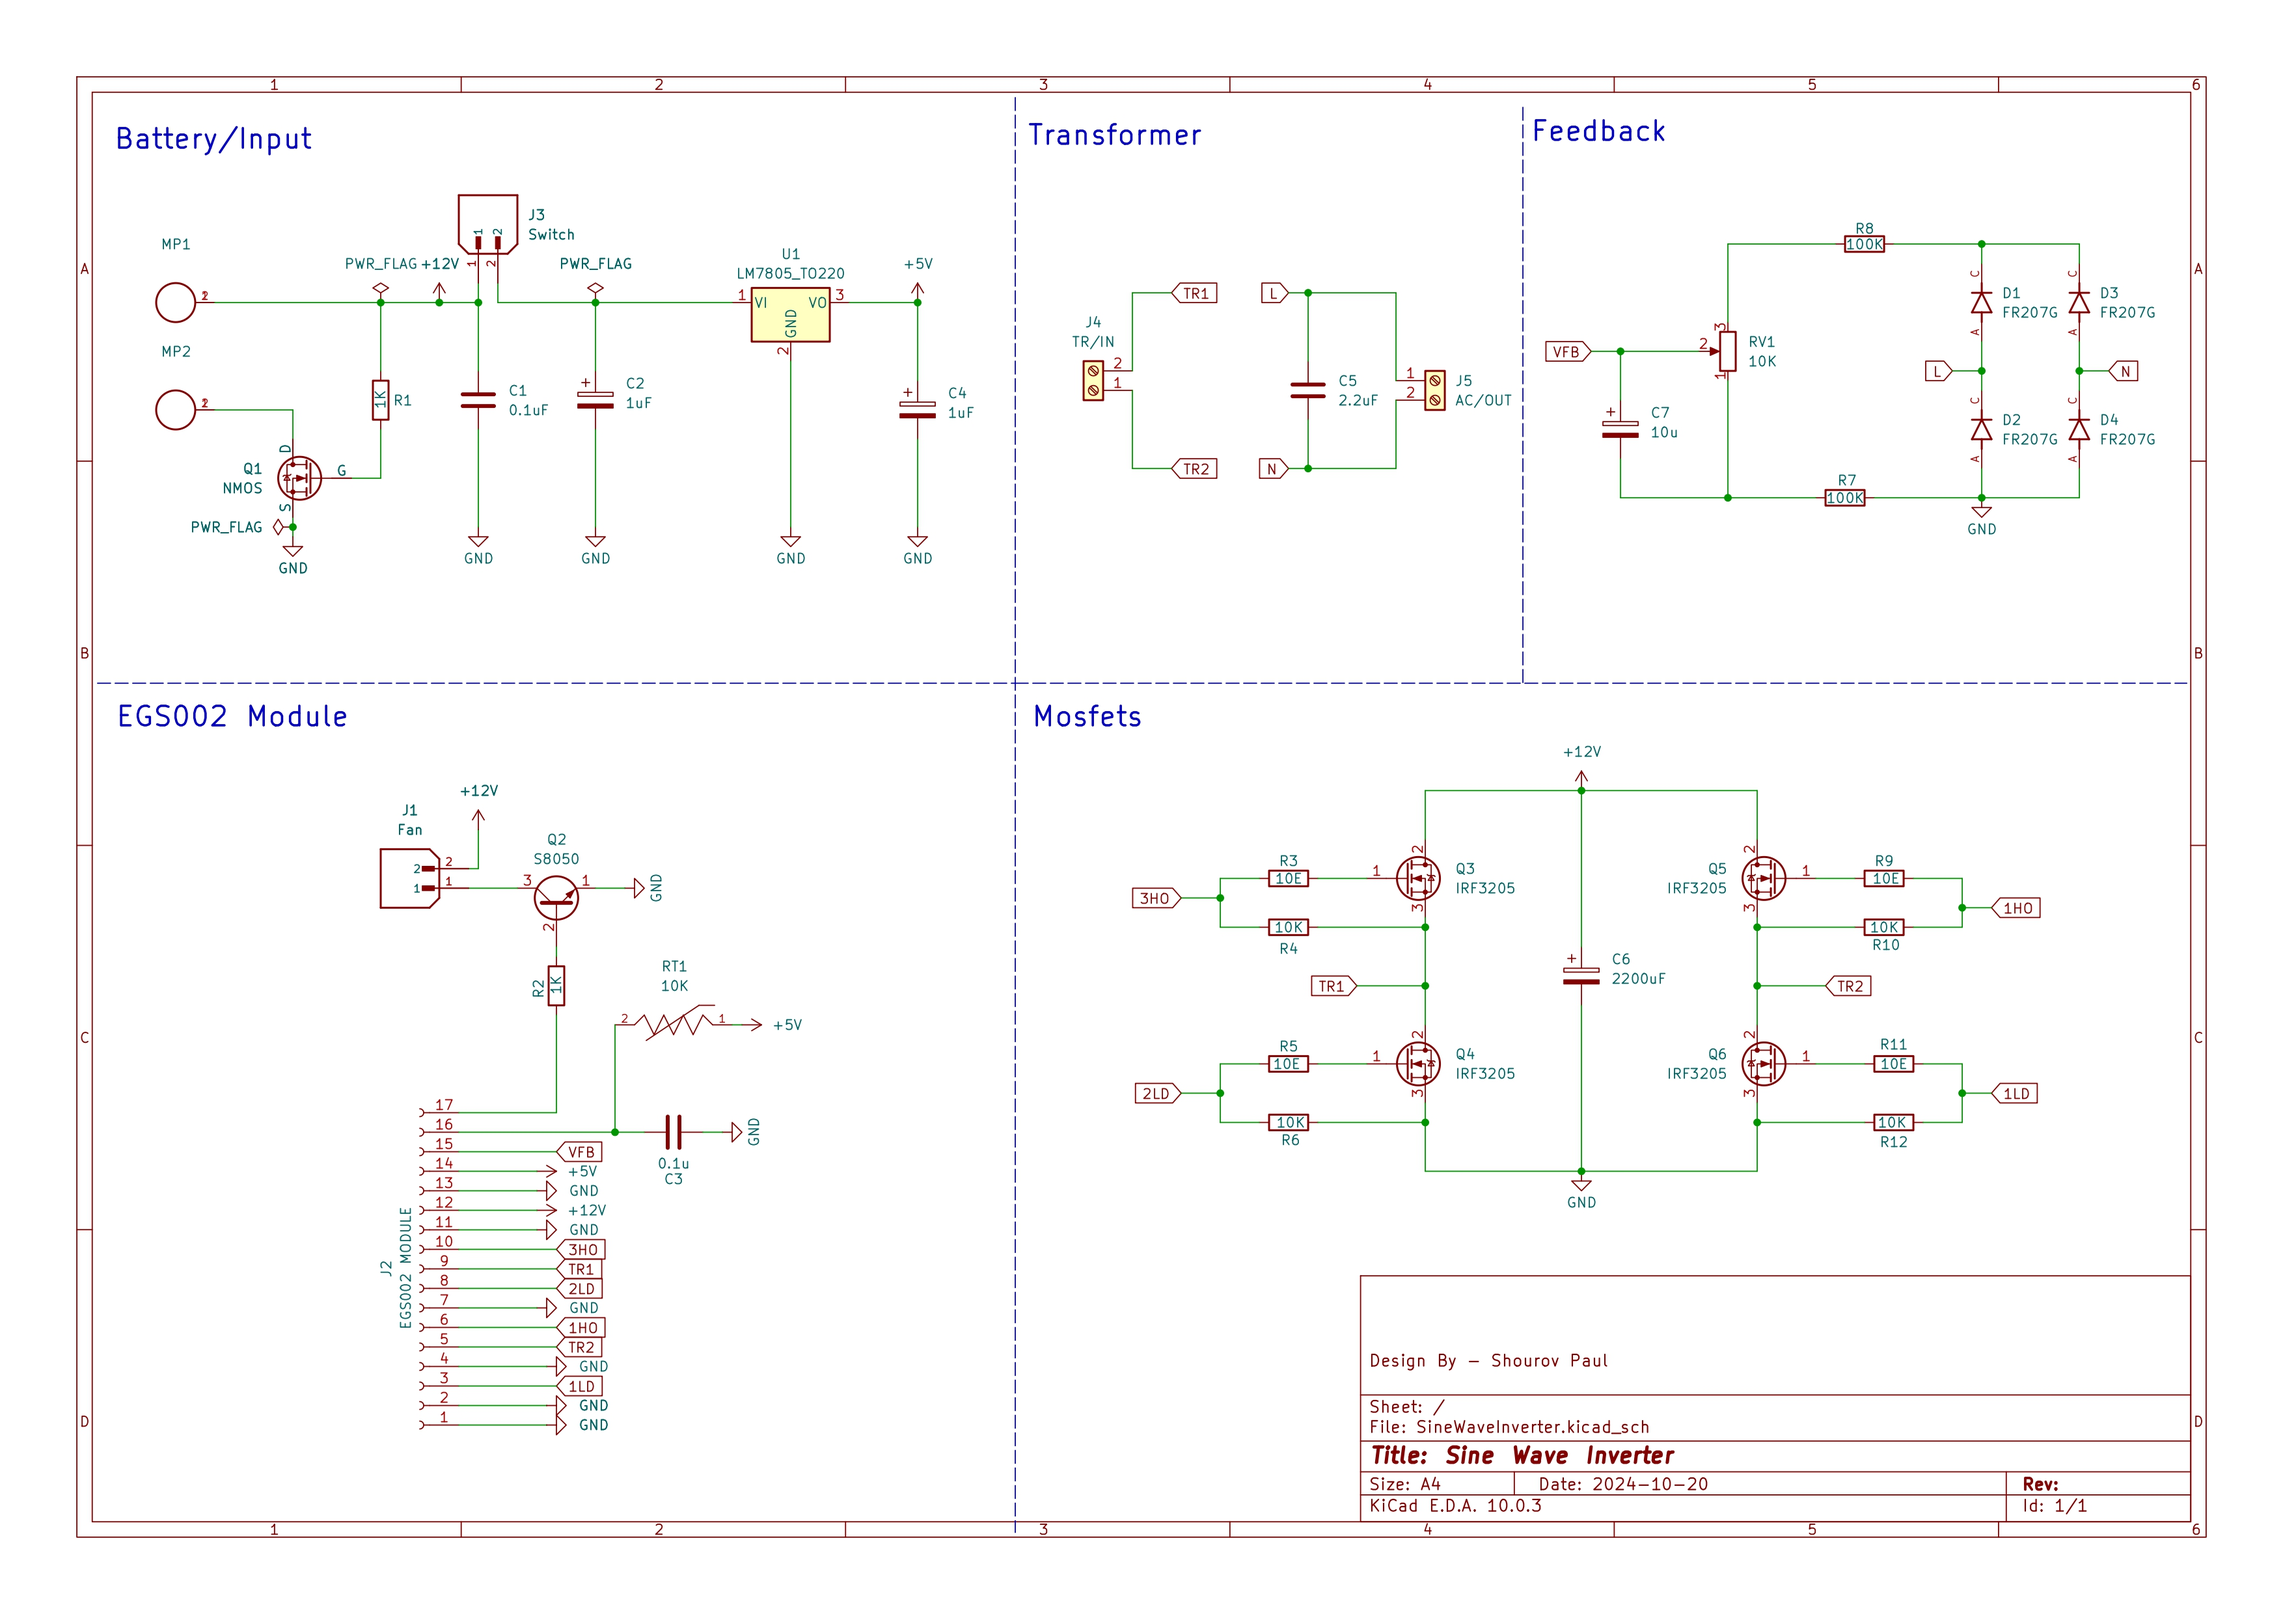
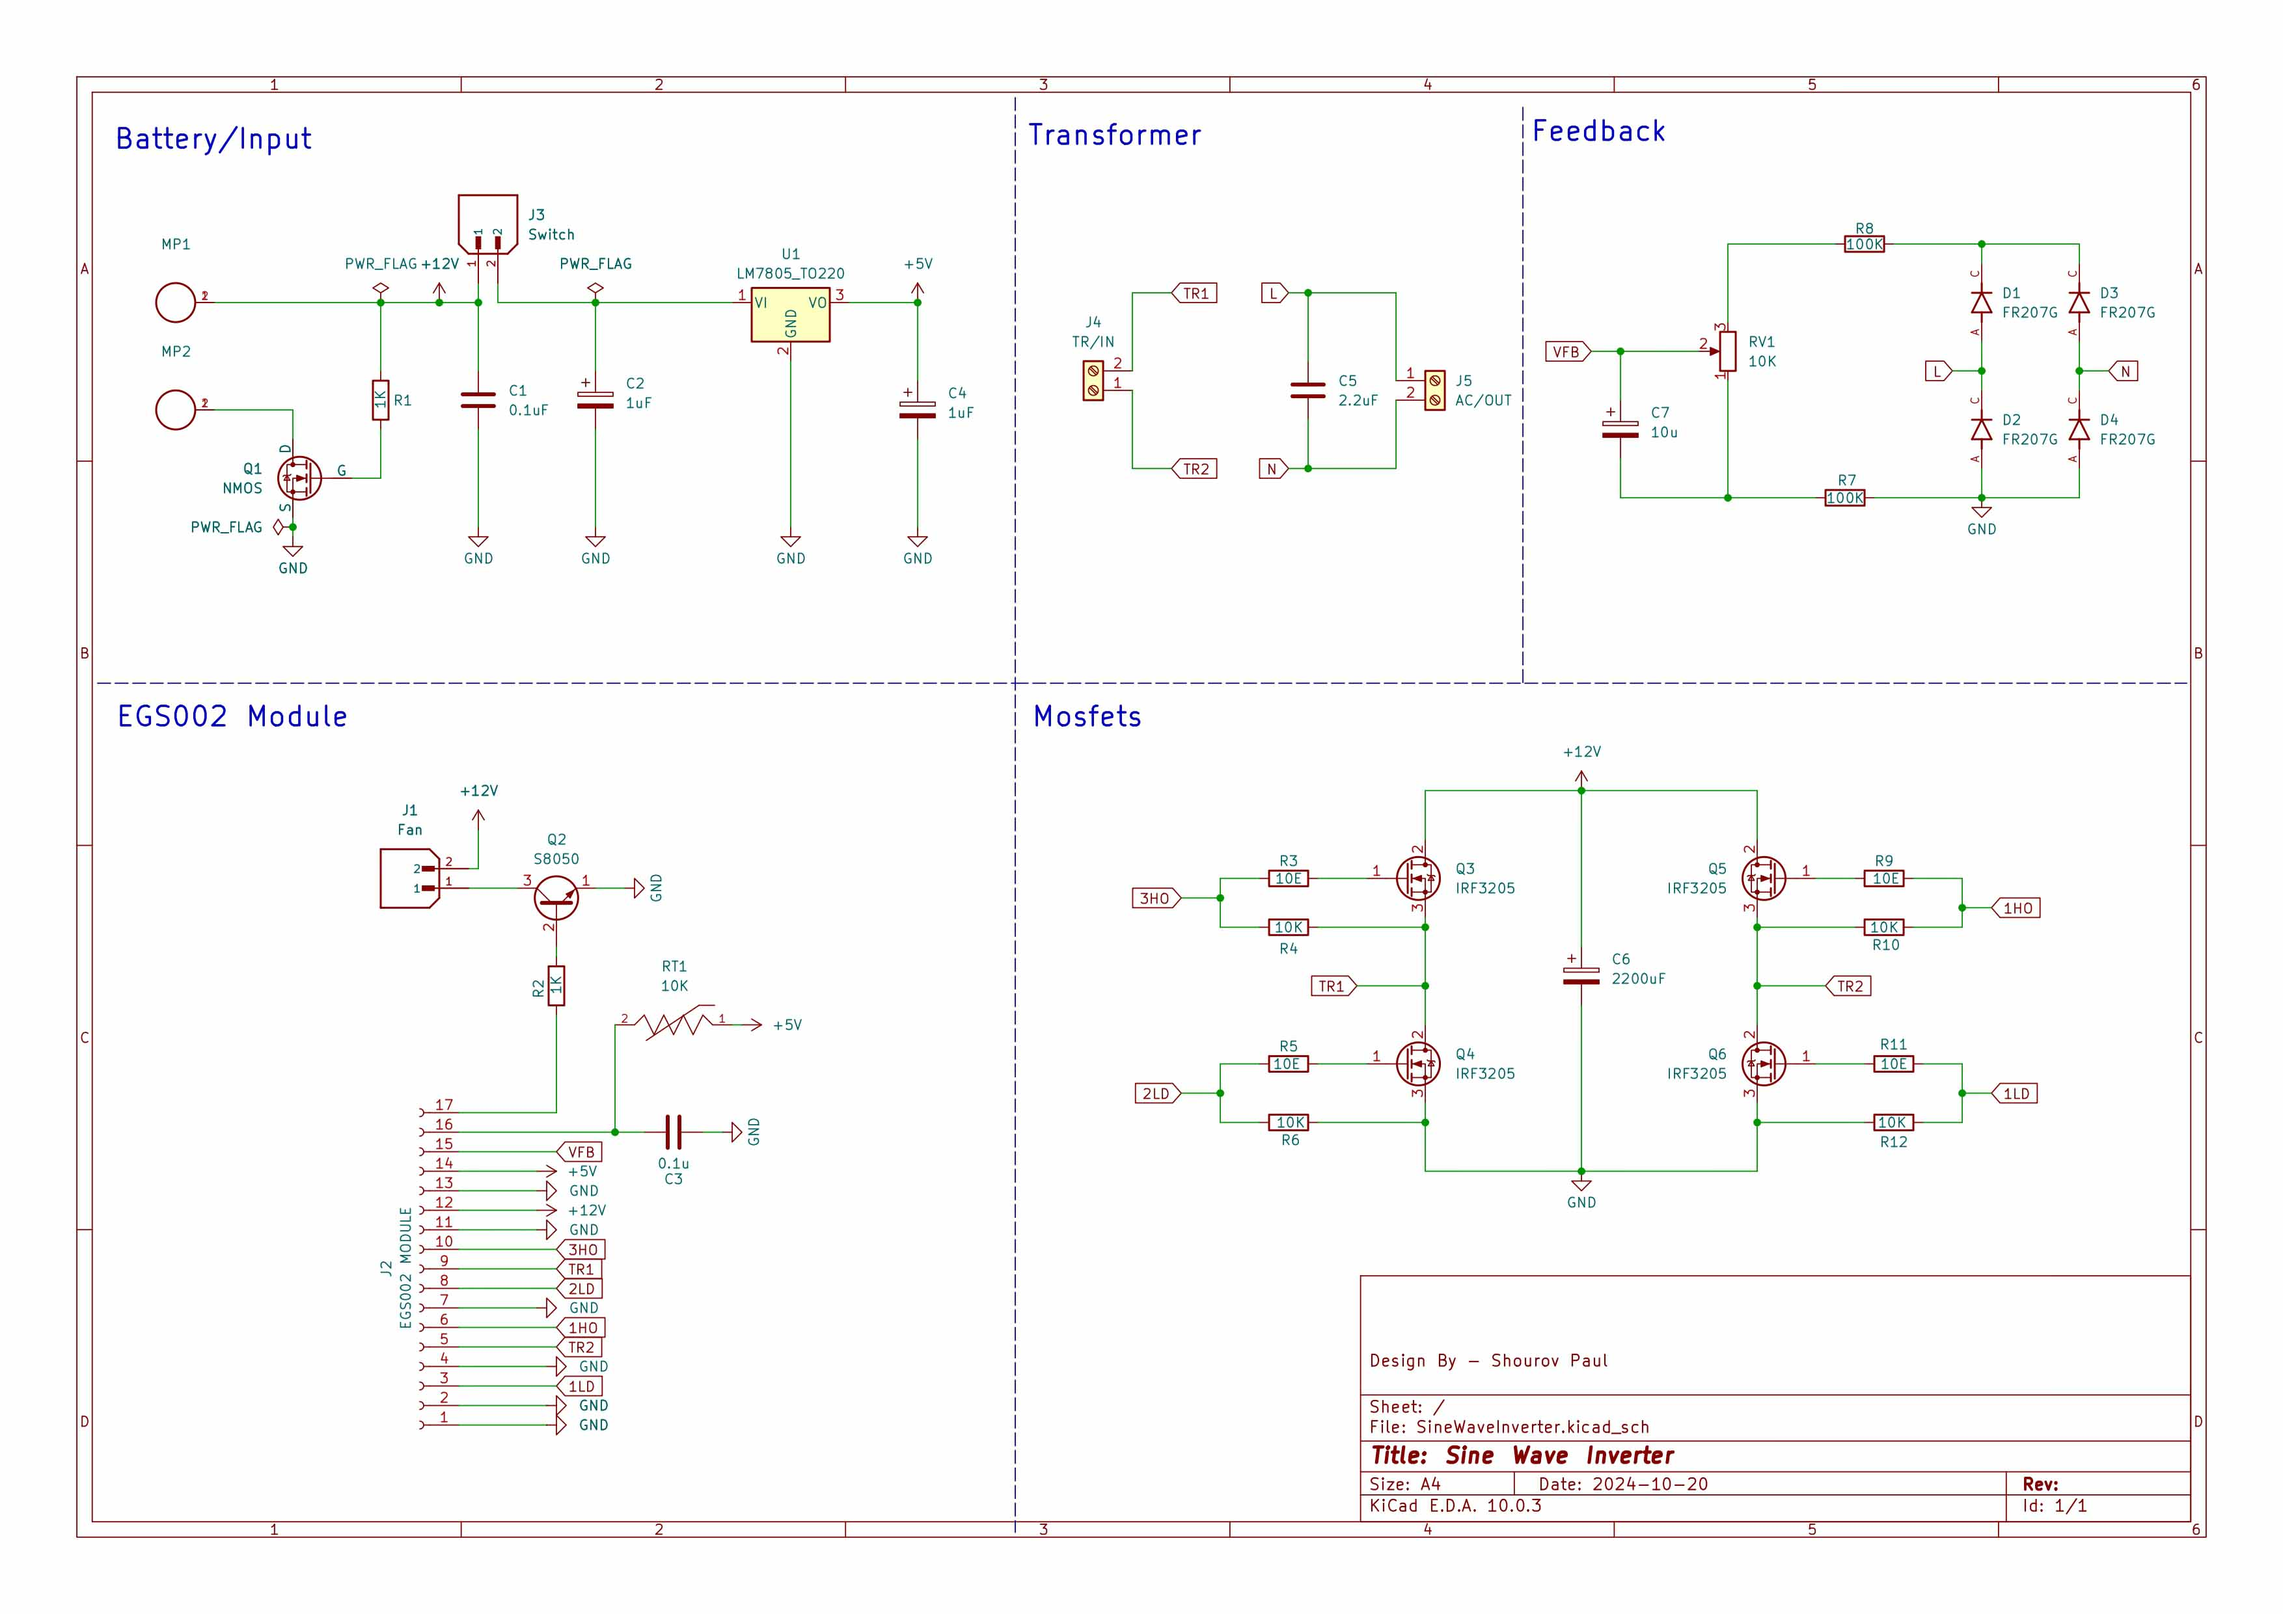
add PublicationsSection component and supplementary project images

Changed region(s): [[0.7457, 0.5276, 0.7768, 0.5586], [0.1243, 0.2793, 0.1554, 0.3104]]

diff --git a/src/components/Publications/PublicationsSection.tsx b/src/components/Publications/PublicationsSection.tsx
@@ -34,106 +34,109 @@ const PublicationCard = ({ pub }: { pub: PublicationItem }) => {
         />
       </div>
 
-      {/* Main content in the middle */}
-      <div className="flex-grow flex flex-col pr-0 md:pr-16">
-        {/* Title */}
-        <h3 className="text-lg font-bold text-neutral leading-snug mb-1 group-hover:text-accent transition-colors duration-300">
-          {pub.title}
-        </h3>
+      {/* Content wrapper with flex layout to prevent text overlapping with year watermark */}
+      <div className="flex-grow flex flex-row justify-between items-start gap-4 min-w-0">
+        {/* Main content in the middle */}
+        <div className="flex-grow flex flex-col min-w-0">
+          {/* Title */}
+          <h3 className="text-lg font-bold text-neutral leading-snug mb-1 group-hover:text-accent transition-colors duration-300">
+            {pub.title}
+          </h3>
 
-        {/* Authors */}
-        <p className="text-sm text-primary-content mb-1 font-medium">
-          {pub.authors}
-        </p>
+          {/* Authors */}
+          <p className="text-sm text-primary-content mb-1 font-medium">
+            {pub.authors}
+          </p>
 
-        {/* Journal and publisher details */}
-        <p className="text-sm text-tertiary-content mb-3 italic">
-          {pub.journal}, {pub.year}
-        </p>
+          {/* Journal and publisher details */}
+          <p className="text-sm text-tertiary-content mb-3 italic">
+            {pub.journal}, {pub.year}
+          </p>
 
-        {/* Buttons row */}
-        <div className="flex flex-wrap gap-2.5 mb-2.5">
-          <button
-            onClick={() => {
-              setShowAbstract(!showAbstract)
-              setShowBibtex(false)
-            }}
-            className={`px-3 py-1 text-xs font-mono font-bold border rounded transition-all cursor-pointer ${
-              showAbstract
-                ? 'bg-accent/10 border-accent text-accent'
-                : 'border-border text-neutral hover:border-accent hover:text-accent'
-            }`}>
-            ABS
-          </button>
-          <button
-            onClick={() => {
-              setShowBibtex(!showBibtex)
-              setShowAbstract(false)
-            }}
-            className={`px-3 py-1 text-xs font-mono font-bold border rounded transition-all cursor-pointer ${
-              showBibtex
-                ? 'bg-accent/10 border-accent text-accent'
-                : 'border-border text-neutral hover:border-accent hover:text-accent'
-            }`}>
-            BIB
-          </button>
-          {pub.htmlUrl && (
-            <a
-              href={pub.htmlUrl}
-              target="_blank"
-              rel="noopener noreferrer"
-              className="px-3 py-1 text-xs font-mono font-bold border border-border text-neutral hover:border-accent hover:text-accent transition-all rounded">
-              HTML
-            </a>
+          {/* Buttons row */}
+          <div className="flex flex-wrap gap-2.5 mb-2.5">
+            <button
+              onClick={() => {
+                setShowAbstract(!showAbstract)
+                setShowBibtex(false)
+              }}
+              className={`px-3 py-1 text-xs font-mono font-bold border rounded transition-all cursor-pointer ${
+                showAbstract
+                  ? 'bg-accent/10 border-accent text-accent'
+                  : 'border-border text-neutral hover:border-accent hover:text-accent'
+              }`}>
+              ABS
+            </button>
+            <button
+              onClick={() => {
+                setShowBibtex(!showBibtex)
+                setShowAbstract(false)
+              }}
+              className={`px-3 py-1 text-xs font-mono font-bold border rounded transition-all cursor-pointer ${
+                showBibtex
+                  ? 'bg-accent/10 border-accent text-accent'
+                  : 'border-border text-neutral hover:border-accent hover:text-accent'
+              }`}>
+              BIB
+            </button>
+            {pub.htmlUrl && (
+              <a
+                href={pub.htmlUrl}
+                target="_blank"
+                rel="noopener noreferrer"
+                className="px-3 py-1 text-xs font-mono font-bold border border-border text-neutral hover:border-accent hover:text-accent transition-all rounded">
+                HTML
+              </a>
+            )}
+            {pub.pdfUrl && (
+              <a
+                href={pub.pdfUrl}
+                target="_blank"
+                rel="noopener noreferrer"
+                className="px-3 py-1 text-xs font-mono font-bold border border-border text-neutral hover:border-accent hover:text-accent transition-all rounded">
+                PDF
+              </a>
+            )}
+          </div>
+
+          {/* Citations Count Badge (replicated styling from reference image) */}
+          {pub.citations !== undefined && (
+            <div className="flex items-center mt-1 w-fit rounded border border-border/80 text-[11px] font-mono overflow-hidden">
+              <span className="bg-[#FFFFFF1A] px-2 py-0.5 text-neutral font-medium border-r border-border/80">Citations</span>
+              <span className="bg-secondary px-2 py-0.5 text-neutral font-bold">{pub.citations}</span>
+            </div>
           )}
-          {pub.pdfUrl && (
-            <a
-              href={pub.pdfUrl}
-              target="_blank"
-              rel="noopener noreferrer"
-              className="px-3 py-1 text-xs font-mono font-bold border border-border text-neutral hover:border-accent hover:text-accent transition-all rounded">
-              PDF
-            </a>
+
+          {/* Collapsible Abstract Content */}
+          {showAbstract && (
+            <div className="mt-4 p-4 bg-secondary border border-border/80 rounded-xl animate-fade-in text-sm text-tertiary-content leading-relaxed">
+              <h4 className="text-xs font-bold font-mono text-accent uppercase mb-1.5 tracking-wide">Abstract</h4>
+              <p>{pub.abstract}</p>
+            </div>
+          )}
+
+          {/* Collapsible BibTeX Content */}
+          {showBibtex && (
+            <div className="mt-4 p-4 bg-secondary border border-border/80 rounded-xl animate-fade-in text-xs font-mono text-neutral relative">
+              <div className="flex justify-between items-center mb-2">
+                <span className="text-xs font-bold text-accent uppercase tracking-wide">BibTeX Citation</span>
+                <button
+                  onClick={handleCopyBib}
+                  className="px-2 py-1 text-[10px] bg-primary border border-border rounded hover:border-accent hover:text-accent transition-colors cursor-pointer">
+                  {copied ? 'Copied!' : 'Copy'}
+                </button>
+              </div>
+              <pre className="overflow-x-auto whitespace-pre-wrap break-all pr-4 text-tertiary-content select-all">
+                {pub.bibtex}
+              </pre>
+            </div>
           )}
         </div>
 
-        {/* Citations Count Badge (replicated styling from reference image) */}
-        {pub.citations !== undefined && (
-          <div className="flex items-center mt-1 w-fit rounded border border-border/80 text-[11px] font-mono overflow-hidden">
-            <span className="bg-[#FFFFFF1A] px-2 py-0.5 text-neutral font-medium border-r border-border/80">Citations</span>
-            <span className="bg-secondary px-2 py-0.5 text-neutral font-bold">{pub.citations}</span>
-          </div>
-        )}
-
-        {/* Collapsible Abstract Content */}
-        {showAbstract && (
-          <div className="mt-4 p-4 bg-secondary border border-border/80 rounded-xl animate-fade-in text-sm text-tertiary-content leading-relaxed">
-            <h4 className="text-xs font-bold font-mono text-accent uppercase mb-1.5 tracking-wide">Abstract</h4>
-            <p>{pub.abstract}</p>
-          </div>
-        )}
-
-        {/* Collapsible BibTeX Content */}
-        {showBibtex && (
-          <div className="mt-4 p-4 bg-secondary border border-border/80 rounded-xl animate-fade-in text-xs font-mono text-neutral relative">
-            <div className="flex justify-between items-center mb-2">
-              <span className="text-xs font-bold text-accent uppercase tracking-wide">BibTeX Citation</span>
-              <button
-                onClick={handleCopyBib}
-                className="px-2 py-1 text-[10px] bg-primary border border-border rounded hover:border-accent hover:text-accent transition-colors cursor-pointer">
-                {copied ? 'Copied!' : 'Copy'}
-              </button>
-            </div>
-            <pre className="overflow-x-auto whitespace-pre-wrap break-all pr-4 text-tertiary-content select-all">
-              {pub.bibtex}
-            </pre>
-          </div>
-        )}
-      </div>
-
-      {/* Large Year Watermark on the right */}
-      <div className="absolute right-0 top-8 text-5xl md:text-6xl font-extrabold tracking-tighter text-neutral/5 select-none pointer-events-none transition-colors duration-300 group-hover:text-accent/10">
-        {pub.year}
+        {/* Large Year Watermark on the right */}
+        <div className="flex-shrink-0 text-5xl md:text-6xl font-extrabold tracking-tighter text-neutral/15 select-none pointer-events-none transition-colors duration-300 group-hover:text-accent/25 pt-1">
+          {pub.year}
+        </div>
       </div>
     </div>
   )
